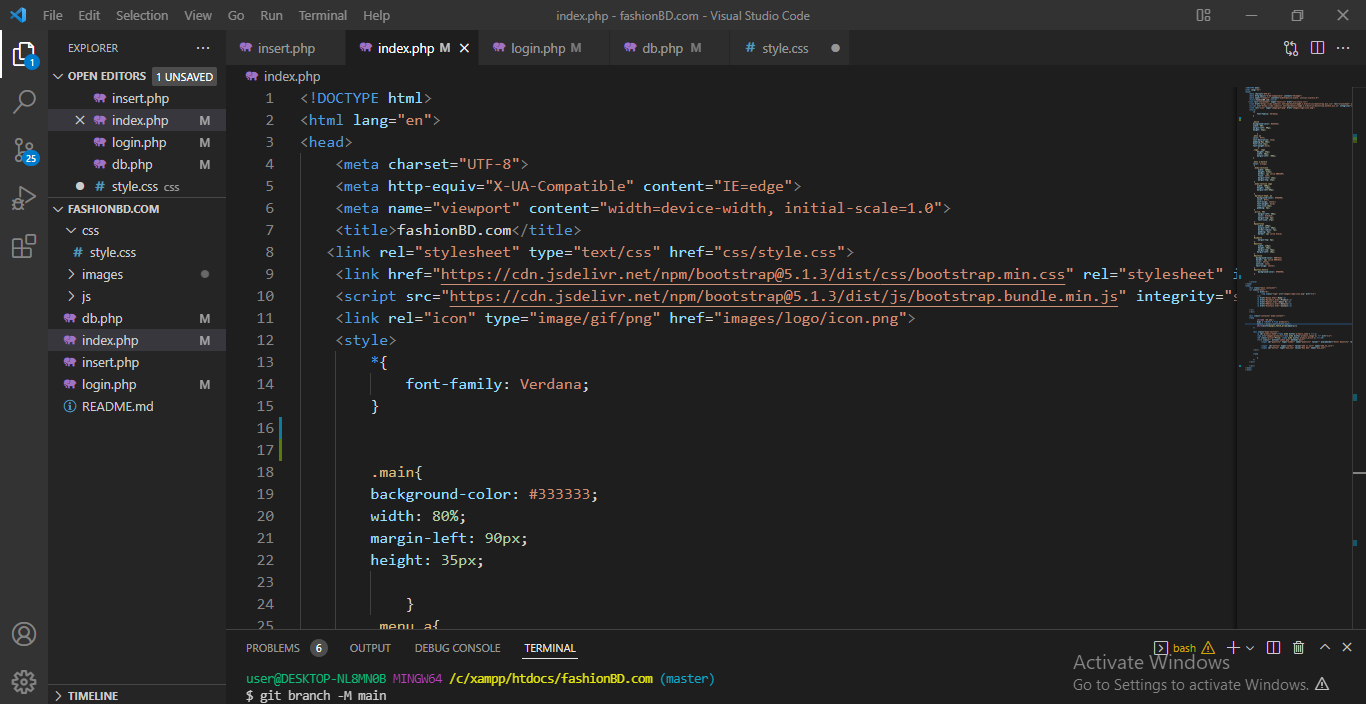
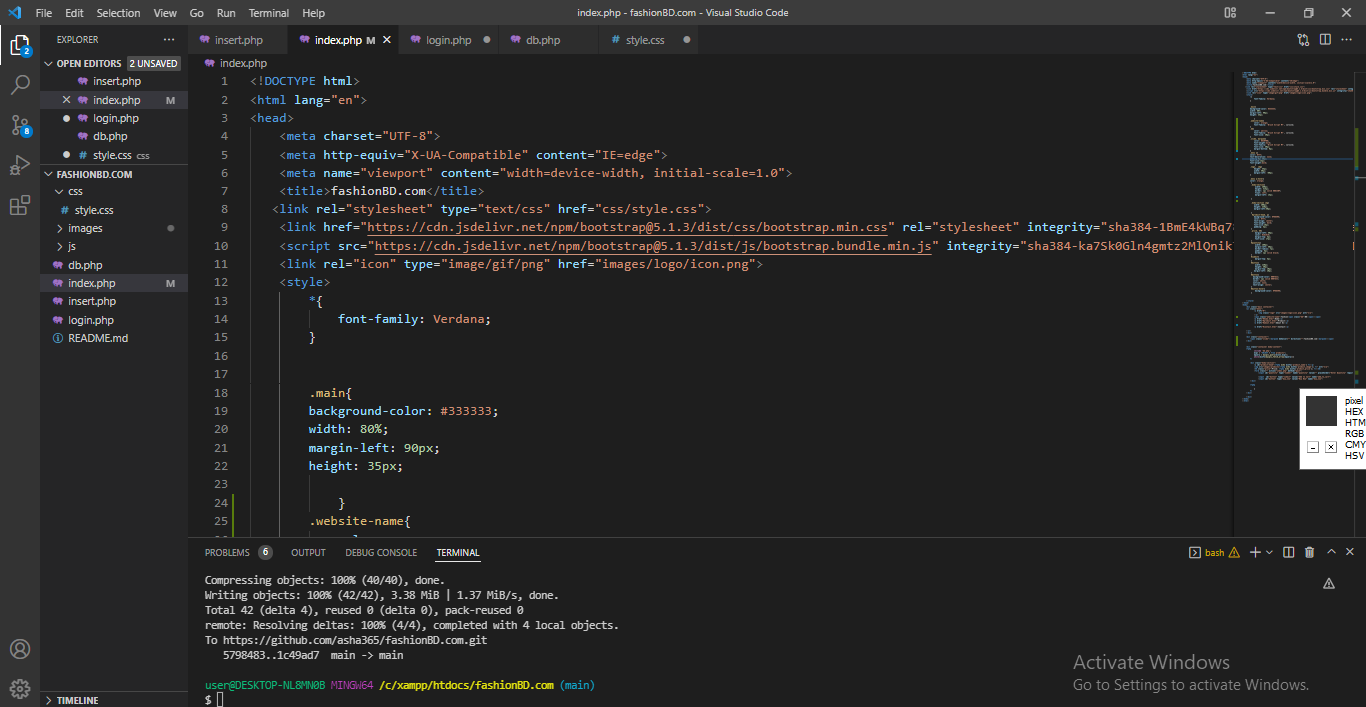
update fashion bd

diff --git a/index.php b/index.php
@@ -22,10 +22,26 @@
         height: 35px;
      
             }
+        .website-name{
+            color: orange;
+            font-family: 'Brush Script MT', cursive;
+        }
+        .bd{
+            color: yellow;
+            font-family: 'Brush Script MT', cursive;
+            font-size: 20px;
+        }
+        .slide, marquee{
+            color: #520F0D;
+            font-weight:bold;
+            font-family: 'Brush Script MT', cursive;
+            font-size: 30px;
+            margin-bottom: 0px;
+        }
         .menu a{ 
         color: #fff;
         text-decoration: none;
-        padding:0px 40px; 
+        padding:0px 50px; 
         font-size:13px;	 
         font-weight:bold;
              }
@@ -44,8 +60,9 @@
              border: 1px solid #BDC3BF;
              float: left;
              margin-left: 15px;
-             margin-top: 15px;
+             
          }
+        
          .body-section img{
             width: 200px;
             height: 230px;
@@ -103,14 +120,20 @@
             <a href="#">
                 <img class="logo" src="images/logo/icon.png" alt="n/a">
             </a>
+            <span class="website-name">fashion<span class="bd">BD</span></span>
             <a href="#home.html">Home</a>
             <a href="#product.html">Product</a>
             <a href="#about.html">About Us</a>
-            <a href="#Details.html">Details</a>
+            
             <a href="#contact.html">Contact</a>
            
     </ul>
     </div>
+
+    <div class="container">
+        <span class="slide"><marquee behavior="" direction="">fashionBD.com</marquee></span>
+    </div>
+
 
     <div class="container body-content">
     <?php
